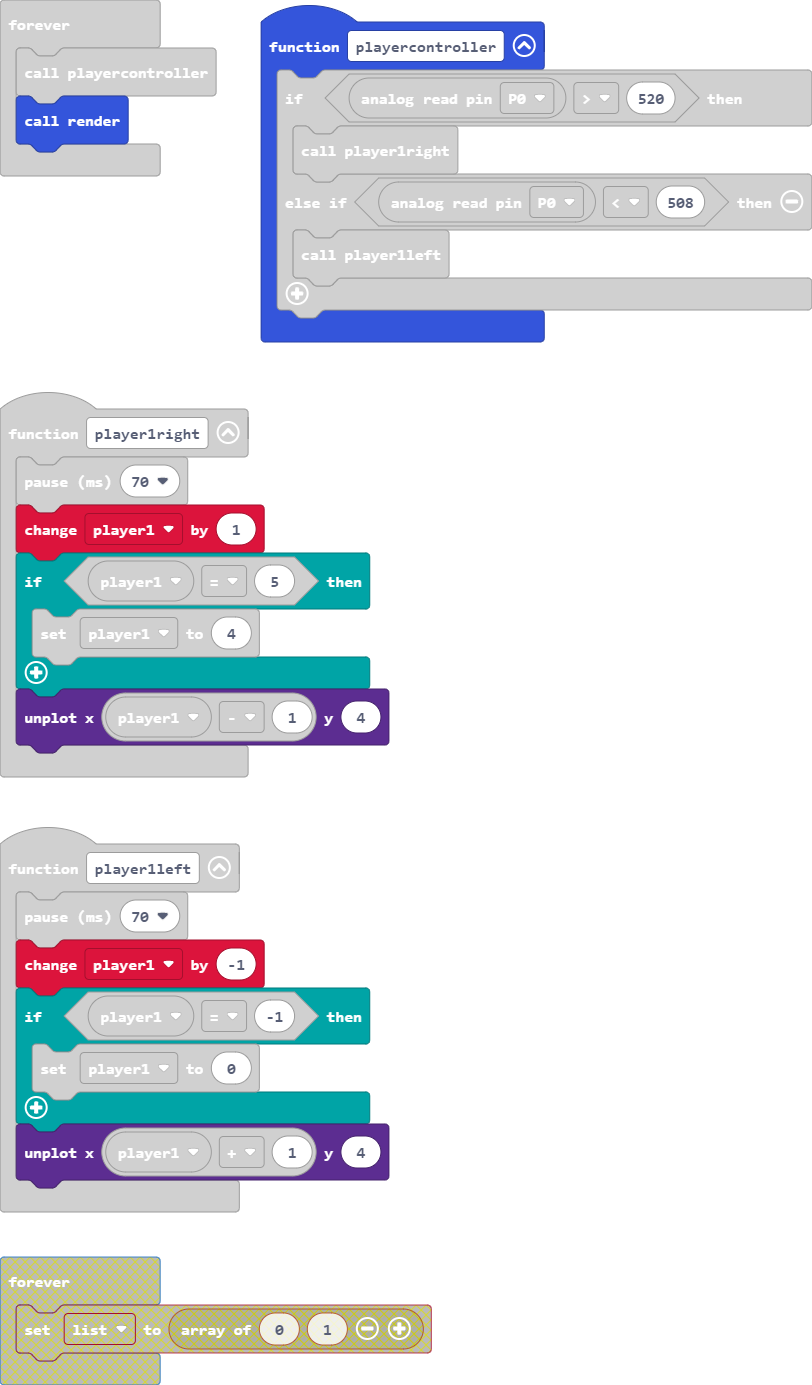
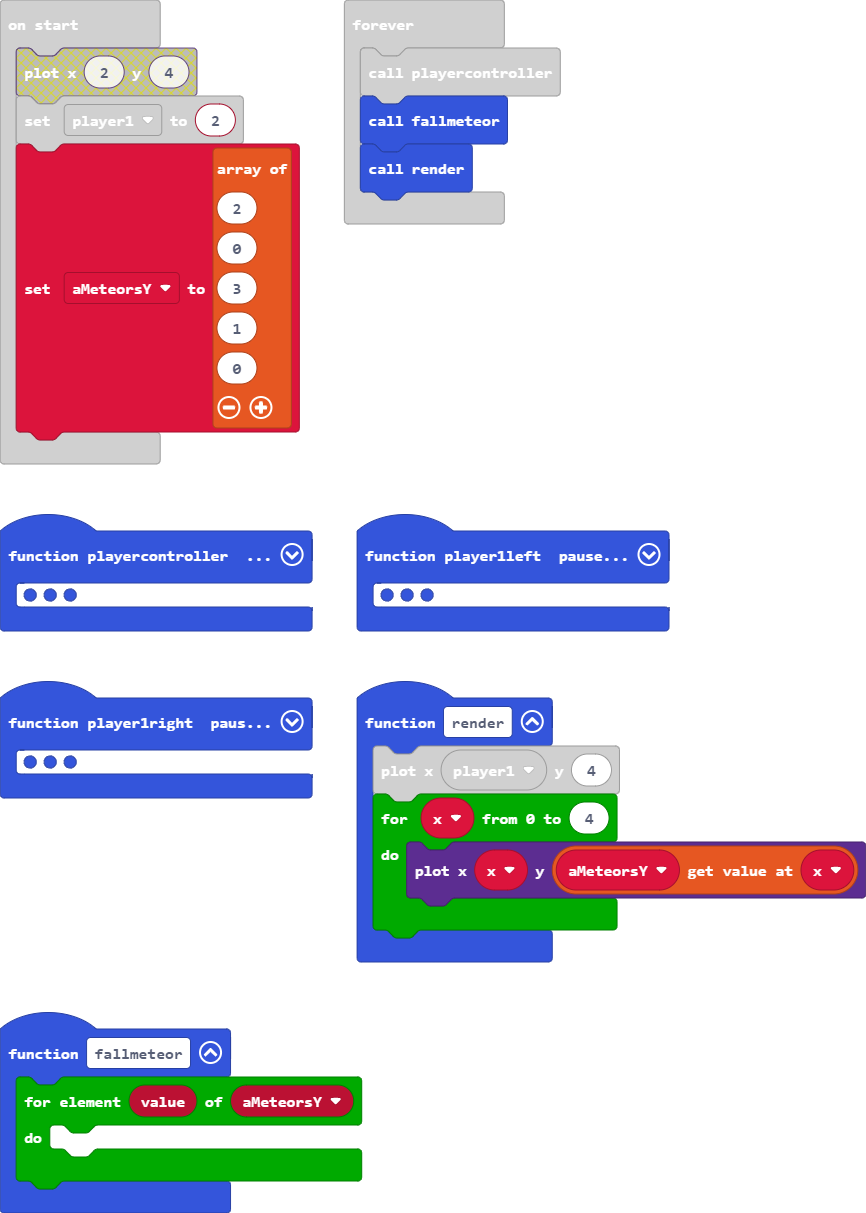
Update main.blocks, main.ts

diff --git a/main.ts b/main.ts
@@ -23,11 +23,27 @@ function player1left () {
 }
 function render () {
     led.plot(player1, 4)
+    for (let x = 0; x <= 4; x++) {
+        led.plot(x, aMeteorsY[x])
+    }
 }
+function fallmeteor () {
+    for (let value of aMeteorsY) {
+    	
+    }
+}
+let aMeteorsY: number[] = []
 let player1 = 0
-led.plot(2, 4)
-player1 = 3
+player1 = 2
+aMeteorsY = [
+2,
+0,
+3,
+1,
+0
+]
 basic.forever(function () {
     playercontroller()
+    fallmeteor()
     render()
 })
